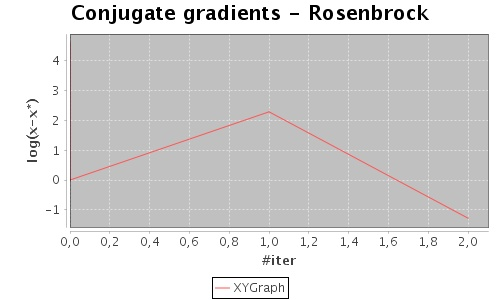
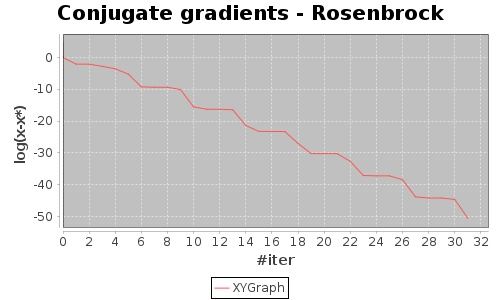
une erreure corrigée sur le gradient de la fonction rosenbrock

diff --git a/src/func/Rosenbrock.java b/src/func/Rosenbrock.java
@@ -12,7 +12,7 @@ public class Rosenbrock implements RealFunc {
 	
 	public Vector grad(Vector v) {
 		
-		double x = 400 * (Math.pow(v.get(0),3)) + 2 * v.get(0) -400 * v.get(1)-2 ;
+		double x = 400 * (Math.pow(v.get(0),3)) + 2 * v.get(0) -400 * v.get(1)* v.get(0)-2;
 		double y = 200 * v.get(1) - 200 *  (Math.pow(v.get(0),2));		
 		return new Vector(new double[] {x,y});
 	}

diff --git a/src/main/Tp1.java b/src/main/Tp1.java
@@ -153,7 +153,7 @@ public class Tp1 {
 		
 //		steepestAlmostDiag1();
 		
-//		steepestAlmostDiag2(); //xk+1 est borné par 0.25 * xk
+//		steepestAlmostDiag2();
 		
 //		steepestHilbert();
 		
@@ -163,7 +163,7 @@ public class Tp1 {
 	
 //		conjgradHilbert();
 		
-//		conjgradRosenbrock();
+		conjgradRosenbrock();
 
 		
 	}
